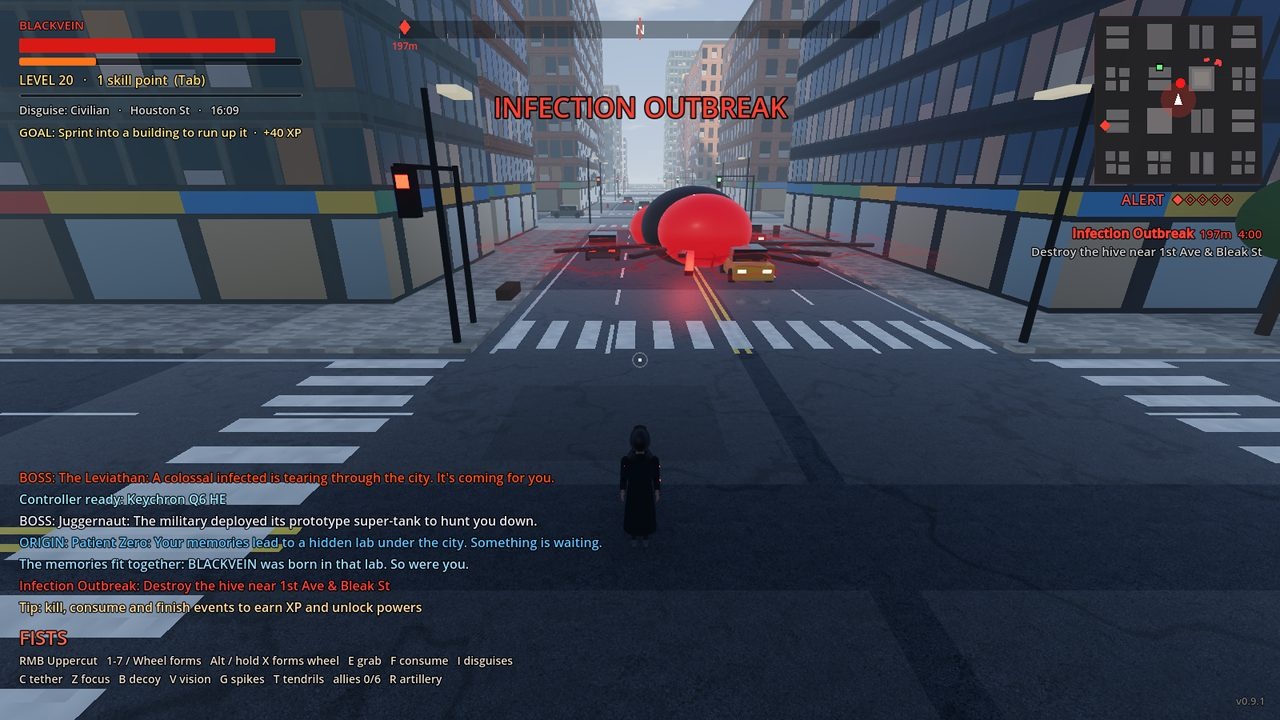
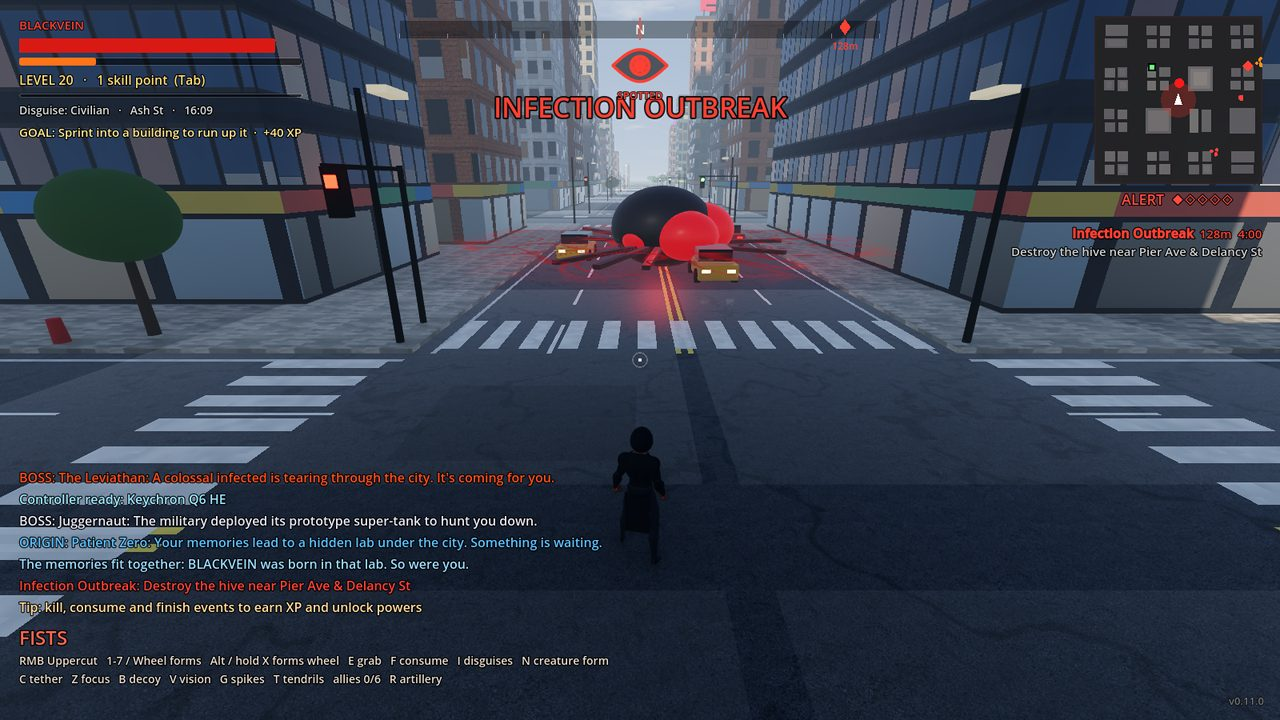
0.12.0: new README screenshots, what's new, version

diff --git a/README.md b/README.md
@@ -22,17 +22,19 @@ people are rigged, animated CC0 characters by Quaternius (credits in [assets/CRE
 | | |
 |---|---|
 | ![The Leviathan boss charging down a street](docs/screenshots/boss-leviathan.jpg) | ![Groundspike devastator at sunset](docs/screenshots/devastator.jpg) |
-| **The Leviathan** — one of three bosses | **Groundspike** devastator |
-| ![Flying a hijacked gunship between lit skyscrapers](docs/screenshots/gunship.jpg) | ![Walking the streets at night in a scientist disguise](docs/screenshots/night.jpg) |
-| **Hijack gunships** and tanks | **Day and night**, with disguises |
-| ![Driving a hijacked tank at dusk](docs/screenshots/tank.jpg) | ![Inside a research lab, disguised as a scientist](docs/screenshots/lab.jpg) |
-| **Tanks** that fire shells | **Research labs** to infiltrate |
-| ![A gravel rooftop above the textured city](docs/screenshots/rooftop.jpg) | ![An infection outbreak with a glowing hive in the street](docs/screenshots/outbreak.jpg) |
-| **Rooftops** over brick and concrete | **Outbreaks** with hives to destroy |
+| **The Leviathan**, one of three bosses | **Groundspike** devastator |
+| ![Flying a hijacked gunship between lit skyscrapers](docs/screenshots/gunship.jpg) | ![Driving a hijacked tank at dusk](docs/screenshots/tank.jpg) |
+| **Hijack gunships** and tanks | **Tanks** that fire shells |
+| ![The Brute creature form: a hulking mass of flesh with glowing veins](docs/screenshots/brute.jpg) | ![The stealth meter eye with soldiers marked by exclamation points](docs/screenshots/stealth.jpg) |
+| **Creature forms**: the Brute | The **stealth meter** and soldiers who've spotted you |
+| ![A line of rigged, animated city people](docs/screenshots/people.jpg) | ![BLACKVEIN in a hood and long coat with faint red veins](docs/screenshots/player.jpg) |
+| **Real, animated people** | **BLACKVEIN** himself |
 | ![Suburban streets with houses, lawns and gardens](docs/screenshots/suburbs.jpg) | ![Farmland with crop fields, barns and silos](docs/screenshots/farmland.jpg) |
 | **Suburbs** to the south and west | **Farmland** to the north |
 | ![Warehouses, chimneys and container yards](docs/screenshots/industrial.jpg) | ![A city park with a fountain and trees](docs/screenshots/park.jpg) |
 | **Industry** to the east, with the military base | **Parks** among midtown's brick blocks |
+| ![An infection outbreak with a glowing hive in the street](docs/screenshots/outbreak.jpg) | ![A rainy night street](docs/screenshots/night.jpg) |
+| **Outbreaks** with hives to destroy | **Day and night**, rain and fog |
 
 ---
 

diff --git a/CHANGELOG.md b/CHANGELOG.md
@@ -2,7 +2,7 @@
 
 All notable changes to BLACKVEIN. Newest first.
 
-## [0.12.0] — Unreleased — Creature forms and a stealth meter
+## [0.12.0] — 2026-10-19 — Creature forms, a stealth meter and collectibles
 
 ### New
 - **Creature forms** (new Creatures skills; N / hold LB + D-pad Down to cycle): whole-body
